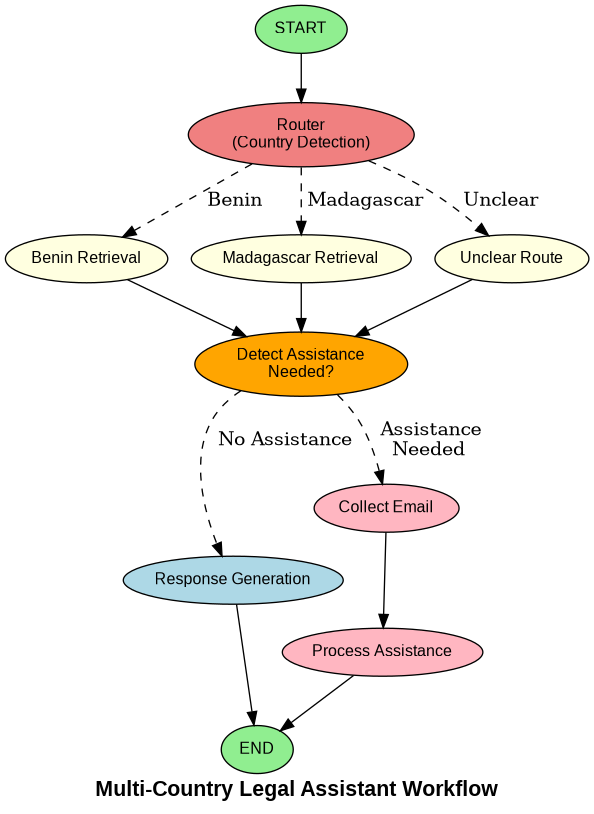
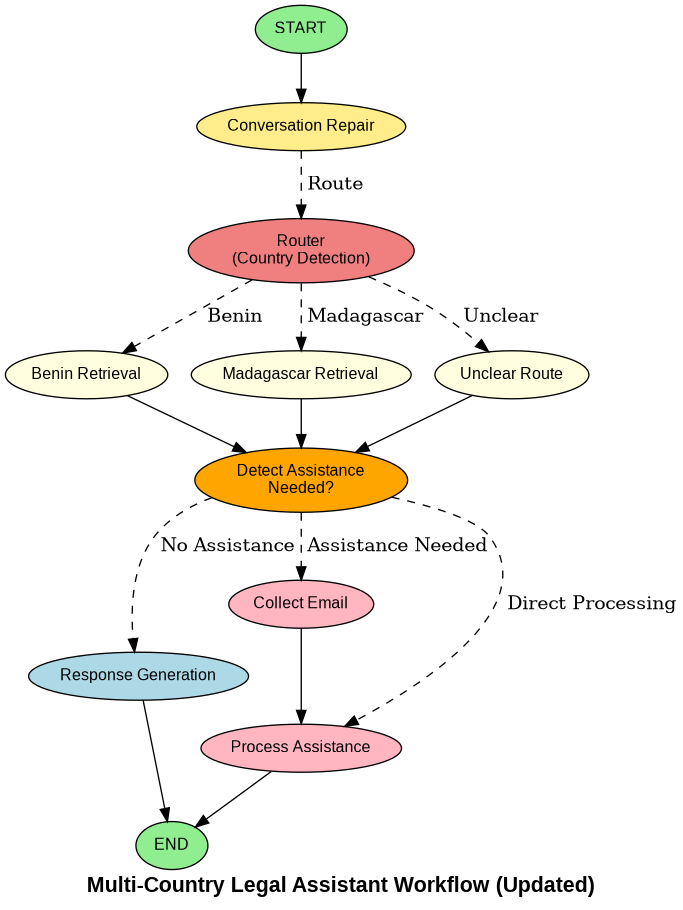
workflow image

Changed region(s): [[0.0, 0.0, 1.0, 0.9828]]

diff --git a/create_workflow_diagram.py b/create_workflow_diagram.py
@@ -3,24 +3,22 @@ import os
 
 def create_langgraph_image(output_filename="langgraph_workflow", format="png"):
     """
-    Create a PNG image of the LangGraph workflow
+    Create a PNG image of the updated LangGraph workflow
     """
-    # Create a new directed graph
     dot = Digraph(comment='LangGraph Workflow', format=format)
-    dot.attr(rankdir='TB', size='8,10')  # Top to bottom layout
+    dot.attr(rankdir='TB', size='8,10')
     
-    # Define node styles
+    # Node styles
     dot.attr('node', shape='rectangle', style='rounded,filled', 
              fillcolor='lightblue', fontname='Arial', fontsize='12')
     
-    # Define special nodes
-    dot.attr('node', shape='ellipse', fillcolor='lightgreen')  # Start/End nodes
+    # Special nodes
+    dot.attr('node', shape='ellipse', fillcolor='lightgreen')
+    dot.node('START', 'START')
+    dot.node('END', 'END')
     
-    # Add nodes
-    dot.node('START', 'START', fillcolor='lightgreen')
-    dot.node('END', 'END', fillcolor='lightgreen')
-    
-    # Regular nodes with different colors for different types
+    # Workflow nodes
+    dot.node('conversation_repair', 'Conversation Repair', fillcolor='lightgoldenrod1')
     dot.node('router', 'Router\n(Country Detection)', fillcolor='lightcoral')
     dot.node('benin_retrieval', 'Benin Retrieval', fillcolor='lightyellow')
     dot.node('madagascar_retrieval', 'Madagascar Retrieval', fillcolor='lightyellow')
@@ -30,49 +28,53 @@ def create_langgraph_image(output_filename="langgraph_workflow", format="png"):
     dot.node('collect_email', 'Collect Email', fillcolor='lightpink')
     dot.node('process_assistance', 'Process Assistance', fillcolor='lightpink')
     
-    # Add edges with different styles for conditional vs regular edges
-    dot.edge('START', 'router')
+    # Edges
+    dot.edge('START', 'conversation_repair')
     
-    # Conditional edges from router (dashed for conditional)
+    # Conditional edge from conversation_repair
+    dot.edge('conversation_repair', 'router', label=' Route', style='dashed')
+    
+    # Router decisions
     dot.edge('router', 'benin_retrieval', label=' Benin', style='dashed')
     dot.edge('router', 'madagascar_retrieval', label=' Madagascar', style='dashed')
     dot.edge('router', 'unclear_route', label=' Unclear', style='dashed')
     
-    # Regular edges from retrieval nodes
+    # Retrieval flows
     dot.edge('benin_retrieval', 'detect_assistance')
     dot.edge('madagascar_retrieval', 'detect_assistance')
     dot.edge('unclear_route', 'detect_assistance')
     
-    # Conditional edges from detect_assistance
-    dot.edge('detect_assistance', 'collect_email', label=' Assistance\nNeeded', style='dashed')
+    # Assistance detection
+    dot.edge('detect_assistance', 'collect_email', label=' Assistance Needed', style='dashed')
     dot.edge('detect_assistance', 'response_generation', label=' No Assistance', style='dashed')
+    dot.edge('detect_assistance', 'process_assistance', label=' Direct Processing', style='dashed')
     
-    # Assistance flow
+    # Assistance flows
     dot.edge('collect_email', 'process_assistance')
     dot.edge('process_assistance', 'END')
     
     # Normal flow
     dot.edge('response_generation', 'END')
     
-    # Add some styling for better visualization
-    dot.attr(label='Multi-Country Legal Assistant Workflow')
+    # Graph label
+    dot.attr(label='Multi-Country Legal Assistant Workflow (Updated)')
     dot.attr(fontsize='16', fontname='Arial Bold')
     
-    # Render the graph
     dot.render(output_filename, cleanup=True, format=format)
     print(f"Workflow image saved as {output_filename}.{format}")
     
     return dot
 
+
 def create_detailed_langgraph_image(output_filename="langgraph_workflow_detailed", format="png"):
     """
-    Create a more detailed version with function names
+    Create a more detailed version with function names for the updated workflow
     """
     dot = Digraph(comment='Detailed LangGraph Workflow', format=format)
     dot.attr(rankdir='TB', size='10,12')
     
     # Node styles
-    dot.attr('node', shape='rectangle', style='rounded,filled', 
+    dot.attr('node', shape='rectangle', style='rounded,filled',
              fillcolor='lightblue', fontname='Arial', fontsize='10')
     
     # Special nodes
@@ -81,6 +83,9 @@ def create_detailed_langgraph_image(output_filename="langgraph_workflow_detailed
     dot.node('END', 'END')
     
     # Detailed nodes with function names
+    dot.attr('node', fillcolor='lightgoldenrod1')
+    dot.node('conversation_repair', 'conversation_repair\n_conversation_repair_node')
+    
     dot.attr('node', fillcolor='lightcoral')
     dot.node('router', 'router\n_router_node')
     
@@ -99,8 +104,9 @@ def create_detailed_langgraph_image(output_filename="langgraph_workflow_detailed
     dot.node('collect_email', 'collect_email\n_collect_email_node')
     dot.node('process_assistance', 'process_assistance\n_process_assistance_node')
     
-    # Edges (same structure as before)
-    dot.edge('START', 'router')
+    # Edges
+    dot.edge('START', 'conversation_repair')
+    dot.edge('conversation_repair', 'router', label=' Route', style='dashed')
     dot.edge('router', 'benin_retrieval', label=' Benin', style='dashed')
     dot.edge('router', 'madagascar_retrieval', label=' Madagascar', style='dashed')
     dot.edge('router', 'unclear_route', label=' Unclear', style='dashed')
@@ -109,6 +115,7 @@ def create_detailed_langgraph_image(output_filename="langgraph_workflow_detailed
     dot.edge('unclear_route', 'detect_assistance')
     dot.edge('detect_assistance', 'collect_email', label=' Assistance', style='dashed')
     dot.edge('detect_assistance', 'response_generation', label=' No Assistance', style='dashed')
+    dot.edge('detect_assistance', 'process_assistance', label=' Direct Processing', style='dashed')
     dot.edge('collect_email', 'process_assistance')
     dot.edge('process_assistance', 'END')
     dot.edge('response_generation', 'END')
@@ -117,6 +124,7 @@ def create_detailed_langgraph_image(output_filename="langgraph_workflow_detailed
     print(f"Detailed workflow image saved as {output_filename}.{format}")
     
     return dot
+
 
 if __name__ == "__main__":
     # Install required package: pip install graphviz
